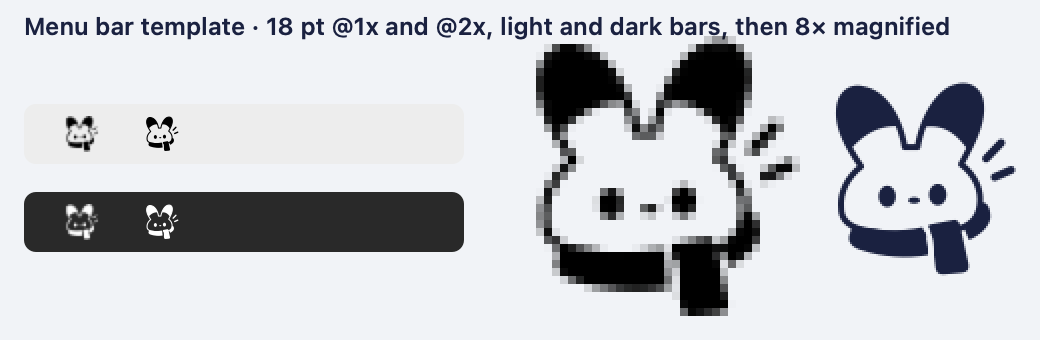
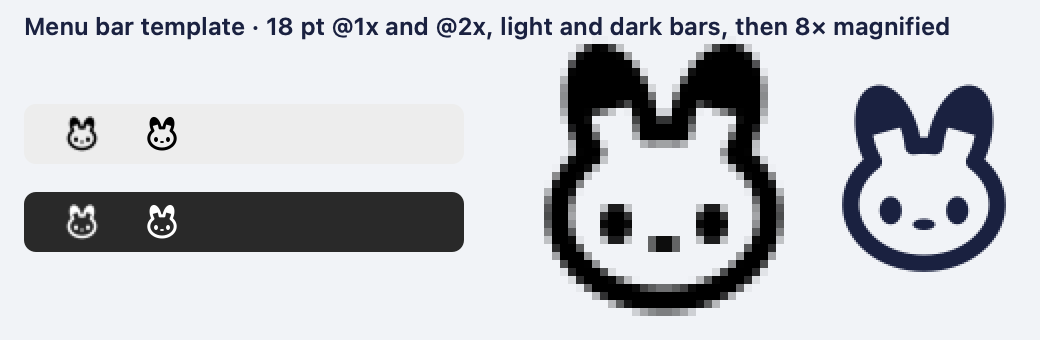
Menu bar: a reduced Mochi glyph instead of the shrunk monochrome mark (D31)
An outline head with filled ear tips, eyes and nose, drawn for 18 pt with
the face on the 2x pixel grid; alpha only so macOS tints it. The
candidates sheet compares six designs beside system symbols on light and
dark bars at 1x and 2x. The large monochrome mark stays for lockups.

diff --git a/scripts/menu-bar-candidates.swift b/scripts/menu-bar-candidates.swift
@@ -1,0 +1,166 @@
+#!/usr/bin/env swift
+// Design exploration for the 18 pt menu bar template: every candidate drawn at real size on light and
+// dark bars beside system menu bar symbols, as 1x pixels, and magnified. The shipped glyph comes from
+// Resources/MenuBar/SidefolkMenuBar.pdf and the previous one from the large monochrome mark it was
+// shrunk from. Run from the repository root: swift scripts/menu-bar-candidates.swift <out.png>
+import AppKit
+import ImageIO
+
+let root = URL(fileURLWithPath: FileManager.default.currentDirectoryPath)
+let out = URL(fileURLWithPath: CommandLine.arguments.count > 1 ? CommandLine.arguments[1] : "build/menu-bar-candidates.png", relativeTo: root)
+
+// MARK: Shared Mochi geometry (18 × 18 pt, y down)
+
+func ellipse(_ cx: Double, _ cy: Double, _ rx: Double, _ ry: Double, angle: Double = 0) -> CGPath {
+    var t = CGAffineTransform(translationX: cx, y: cy).rotated(by: angle * .pi / 180)
+    return CGPath(ellipseIn: CGRect(x: -rx, y: -ry, width: 2 * rx, height: 2 * ry), transform: &t)
+}
+let head = ellipse(9, 11.3, 6.9, 5.5)
+let leftEar = ellipse(5.8, 4.9, 2.05, 4.3, angle: -16)
+let rightEar = ellipse(12.2, 4.9, 2.05, 4.3, angle: 16)
+let ears = leftEar.union(rightEar)
+let silhouette = head.union(ears)
+let eyes = ellipse(6.5, 11.7, 0.95, 1.15).union(ellipse(11.5, 11.7, 0.95, 1.15))
+let nose = ellipse(9, 12.85, 0.75, 0.48)
+/// The upper part of each ear, as the brand's navy ear tips.
+let tips: CGPath = {
+    func tip(_ ear: CGPath, _ cx: Double, _ angle: Double) -> CGPath {
+        var t = CGAffineTransform(translationX: cx, y: 4.9).rotated(by: angle * .pi / 180)
+        return ear.intersection(CGPath(rect: CGRect(x: -4, y: -6, width: 8, height: 5.4), transform: &t))
+    }
+    return tip(leftEar, 5.8, -16).union(tip(rightEar, 12.2, 16))
+}()
+let scarf: CGPath = {
+    let band = CGPath(roundedRect: CGRect(x: 3.2, y: 14.6, width: 11.6, height: 2.6), cornerWidth: 1.3, cornerHeight: 1.3, transform: nil)
+    let tail = CGPath(roundedRect: CGRect(x: 10.6, y: 15.2, width: 2.6, height: 2.8), cornerWidth: 1.1, cornerHeight: 1.1, transform: nil)
+    return band.union(tail)
+}()
+func outlined(_ p: CGPath, _ width: Double) -> CGPath { p.copy(strokingWithWidth: width, lineCap: .round, lineJoin: .round, miterLimit: 10) }
+/// A ring of clear space around a shape, so the shapes beside it read as separate pieces.
+func gap(_ p: CGPath, _ width: Double) -> CGPath { outlined(p, width * 2) }
+
+struct Candidate {
+    var name: String
+    var note: String
+    var draw: (CGContext) -> Void
+}
+
+func fill(_ c: CGContext, _ p: CGPath) { c.addPath(p); c.fillPath() }
+func clear(_ c: CGContext, _ p: CGPath) { c.saveGState(); c.setBlendMode(.clear); c.addPath(p); c.fillPath(); c.restoreGState() }
+
+/// A vector or image file drawn into the 18 pt box.
+func file(_ path: String) -> (CGContext) -> Void {
+    let image = NSImage(contentsOf: root.appendingPathComponent(path))
+    return { c in
+        guard let image else { return }
+        NSGraphicsContext.saveGraphicsState()
+        NSGraphicsContext.current = NSGraphicsContext(cgContext: c, flipped: true)
+        image.draw(in: NSRect(x: 0, y: 0, width: 18, height: 18), from: .zero, operation: .sourceOver, fraction: 1, respectFlipped: true, hints: nil)
+        NSGraphicsContext.restoreGraphicsState()
+    }
+}
+
+let candidates: [Candidate] = [
+    Candidate(name: "Before", note: "the large monochrome mark shrunk: rays, paw, scarf and outline compete at 18 pt",
+              draw: file("Resources/Brand/exports/mascot-navy.pdf")),
+    Candidate(name: "A · solid", note: "filled head and ears, eyes cut out: bold, but the ears merge into one blob") { c in
+        fill(c, silhouette); clear(c, eyes)
+    },
+    Candidate(name: "B · outline", note: "1.5 pt outline and two eyes: calm and Apple-like, a generic bunny") { c in
+        fill(c, outlined(silhouette, 1.5)); fill(c, eyes)
+    },
+    Candidate(name: "C · ear tips", note: "outline with solid ear tips, eyes: the brand's navy tips read even at 1x") { c in
+        fill(c, outlined(silhouette, 1.5)); fill(c, tips); fill(c, eyes)
+    },
+    Candidate(name: "C2 · ear tips + nose", note: "C with Mochi's nose: the face reads as Mochi rather than any bunny") { c in
+        fill(c, outlined(silhouette, 1.5)); fill(c, tips); fill(c, eyes); fill(c, nose)
+    },
+    Candidate(name: "D · solid + scarf", note: "filled head with a separate scarf: Mochi, but heavy beside system glyphs") { c in
+        fill(c, silhouette.subtracting(gap(scarf, 0.8))); fill(c, scarf); clear(c, eyes)
+    },
+    Candidate(name: "E · tips + scarf", note: "C with the scarf as one shape: most Mochi, crowded at 1x") { c in
+        fill(c, outlined(silhouette, 1.5).subtracting(gap(scarf, 0.8))); fill(c, tips); fill(c, scarf); fill(c, eyes)
+    },
+    Candidate(name: "Shipped · C2", note: "eyes and nose on whole 2x pixels, all inside the 18 pt box (Resources/MenuBar)",
+              draw: file("Resources/MenuBar/SidefolkMenuBar.pdf")),
+]
+
+// MARK: Rendering
+
+let scale: CGFloat = 2
+func bitmap(_ w: Int, _ h: Int) -> CGContext {
+    CGContext(data: nil, width: w, height: h, bitsPerComponent: 8, bytesPerRow: 0, space: CGColorSpace(name: CGColorSpace.sRGB)!,
+              bitmapInfo: CGImageAlphaInfo.premultipliedLast.rawValue)!
+}
+/// The glyph as an alpha mask at `pixels` per point, like the template macOS tints.
+func mask(_ draw: (CGContext) -> Void, pixels: CGFloat) -> CGImage {
+    let c = bitmap(Int(18 * pixels), Int(18 * pixels))
+    c.translateBy(x: 0, y: 18 * pixels); c.scaleBy(x: pixels, y: -pixels)
+    c.setFillColor(CGColor(gray: 0, alpha: 1))
+    draw(c)
+    return c.makeImage()!
+}
+func symbol(_ name: String) -> (CGContext) -> Void {
+    let image = NSImage(systemSymbolName: name, accessibilityDescription: nil)!
+        .withSymbolConfiguration(NSImage.SymbolConfiguration(pointSize: 14, weight: .regular))!
+    return { c in
+        NSGraphicsContext.saveGraphicsState()
+        NSGraphicsContext.current = NSGraphicsContext(cgContext: c, flipped: true)
+        let s = image.size
+        image.draw(in: NSRect(x: (18 - s.width) / 2, y: (18 - s.height) / 2, width: s.width, height: s.height))
+        NSGraphicsContext.restoreGraphicsState()
+    }
+}
+let system = ["wifi", "battery.75percent", "magnifyingglass", "switch.2"].map(symbol)
+
+let rowHeight: CGFloat = 100, width: CGFloat = 1330
+let height = 70 + CGFloat(candidates.count) * rowHeight
+let c = bitmap(Int(width * scale), Int(height * scale))
+c.scaleBy(x: scale, y: scale)
+NSGraphicsContext.current = NSGraphicsContext(cgContext: c, flipped: false)
+c.setFillColor(CGColor(gray: 0.96, alpha: 1)); c.fill(CGRect(x: 0, y: 0, width: width, height: height))
+func text(_ s: String, _ x: CGFloat, _ y: CGFloat, size: CGFloat = 12, weight: NSFont.Weight = .regular, color: NSColor = .init(white: 0.2, alpha: 1)) {
+    (s as NSString).draw(at: NSPoint(x: x, y: y), withAttributes: [.font: NSFont.systemFont(ofSize: size, weight: weight), .foregroundColor: color])
+}
+func tinted(_ m: CGImage, _ rect: CGRect, _ color: NSColor, pixelated: Bool = false) {
+    c.saveGState()
+    c.interpolationQuality = pixelated ? .none : .high
+    c.clip(to: rect, mask: m)
+    c.setFillColor(color.cgColor); c.fill(rect)
+    c.restoreGState()
+}
+text("Menu bar template candidates · real size on light and dark bars beside system symbols, then 1x pixels, then 2x pixels magnified ×5",
+     16, height - 32, size: 13, weight: .semibold)
+for (i, candidate) in candidates.enumerated() {
+    let top = height - 60 - CGFloat(i) * rowHeight
+    text(candidate.name, 16, top - 22, size: 13, weight: .semibold)
+    text(candidate.note, 16, top - 40, size: 11, color: .init(white: 0.4, alpha: 1))
+    let retina = mask(candidate.draw, pixels: 2), plain = mask(candidate.draw, pixels: 1)
+    for (j, dark) in [false, true].enumerated() {
+        let background = dark ? NSColor(white: 0.13, alpha: 1) : NSColor(white: 0.985, alpha: 1)
+        let ink = dark ? NSColor.white : NSColor(white: 0, alpha: 0.85)
+        let bar = CGRect(x: 16 + CGFloat(j) * 320, y: top - 84, width: 300, height: 24)
+        c.setFillColor(background.cgColor); c.fill(bar)
+        var x = bar.minX + 12
+        for draw in system.prefix(2) { tinted(mask(draw, pixels: 2), CGRect(x: x, y: bar.minY + 3, width: 18, height: 18), ink); x += 30 }
+        tinted(retina, CGRect(x: x, y: bar.minY + 3, width: 18, height: 18), ink); x += 30
+        for draw in system.suffix(2) { tinted(mask(draw, pixels: 2), CGRect(x: x, y: bar.minY + 3, width: 18, height: 18), ink); x += 30 }
+        text("Mon 26 Oct 14:05", x + 4, bar.minY + 5, size: 12.5, weight: .medium, color: ink)
+        // 1x: each pixel of a non-Retina display shown as one point.
+        let one = CGRect(x: 670 + CGFloat(j) * 40, y: top - 81, width: 18, height: 18)
+        c.setFillColor(background.cgColor); c.fill(one.insetBy(dx: -6, dy: -3))
+        tinted(plain, one, ink, pixelated: true)
+        // 2x pixels magnified.
+        let detail = CGRect(x: 770 + CGFloat(j) * 100, y: top - 92, width: 90, height: 90)
+        c.setFillColor(background.cgColor); c.fill(detail)
+        tinted(retina, detail, dark ? .white : .black, pixelated: true)
+    }
+    if i == 0 {
+        text("1x", 690, top - 52, size: 10, color: .init(white: 0.45, alpha: 1))
+        text("2x pixels ×5", 830, top - 0, size: 10, color: .init(white: 0.45, alpha: 1))
+    }
+}
+let dest = CGImageDestinationCreateWithURL(out as CFURL, "public.png" as CFString, 1, nil)!
+CGImageDestinationAddImage(dest, c.makeImage()!, nil)
+precondition(CGImageDestinationFinalize(dest), "Cannot write \(out.path)")
+print("wrote \(out.path)")

diff --git a/Sources/SidefolkCharacter/RabbitBrandMark.swift b/Sources/SidefolkCharacter/RabbitBrandMark.swift
@@ -90,11 +90,9 @@ public enum RabbitBrandMark {
         c.restoreGState()
     }
 
-    public static func svg(ink: String = "#0F2D5B", menuBar: Bool = false) -> String {
-        let viewport = menuBar ? "width=\"18\" height=\"18\" viewBox=\"8 16 280 280\""
-            : "width=\"260\" height=\"280\" viewBox=\"18 16 260 280\""
-        return """
-        <svg xmlns="http://www.w3.org/2000/svg" \(viewport)>
+    public static func svg(ink: String = "#0F2D5B") -> String {
+        """
+        <svg xmlns="http://www.w3.org/2000/svg" width="260" height="280" viewBox="18 16 260 280">
         <title>Sidefolk Mochi rabbit mascot</title>
         <defs>
         <clipPath id="rabbit-shell"><path d="\(shell)"/></clipPath>
@@ -112,6 +110,68 @@ public enum RabbitBrandMark {
         <path d="\(rays)" fill="none" stroke="\(ink)" stroke-width="11" stroke-linecap="round"/>
         </g>
         </svg>
+        """
+    }
+}
+
+/// Mochi's head reduced to what reads in the menu bar (D31): a 1.5 pt outline of the head and ears,
+/// the ear tips filled like the brand's navy tips, two eyes and the nose. No rays, paw or scarf: at
+/// 18 pt they turned the large mark into noise. Drawn in an 18 pt box with the eyes and nose on the
+/// 2x pixel grid; it is one alpha shape, so macOS tints it as a template in any menu bar.
+public enum MochiMenuGlyph {
+    /// The glyph in its 18 × 18 pt box, y down. Built on each call: it is drawn a handful of times.
+    public static var path: CGPath {
+        func ellipse(_ cx: Double, _ cy: Double, _ rx: Double, _ ry: Double, angle: Double = 0) -> CGPath {
+            var t = CGAffineTransform(translationX: cx, y: cy).rotated(by: angle * .pi / 180)
+            return CGPath(ellipseIn: CGRect(x: -rx, y: -ry, width: 2 * rx, height: 2 * ry), transform: &t)
+        }
+        let head = ellipse(9, 11.2, 6.6, 5.3)
+        let ears = [(x: 5.8, angle: -16.0), (x: 12.2, angle: 16.0)]
+        let earShapes = ears.map { ellipse($0.x, 5.2, 2.05, 4.1, angle: $0.angle) }
+        let outline = earShapes.reduce(head) { $0.union($1) }
+            .copy(strokingWithWidth: 1.5, lineCap: .round, lineJoin: .round, miterLimit: 10)
+        // The upper part of each ear, cut square to the ear's own axis.
+        let tips = zip(earShapes, ears).map { shape, ear -> CGPath in
+            var t = CGAffineTransform(translationX: ear.x, y: 5.2).rotated(by: ear.angle * .pi / 180)
+            return shape.intersection(CGPath(rect: CGRect(x: -4, y: -6, width: 8, height: 5.4), transform: &t))
+        }
+        let face = [ellipse(6, 11.75, 1, 1.25), ellipse(12, 11.75, 1, 1.25), ellipse(9, 13, 1, 0.5)]
+        return (tips + face).reduce(outline) { $0.union($1) }
+    }
+
+    /// Fills the glyph in black, scaled to `size`, in a y-up context (bitmaps and PDF pages).
+    public static func draw(in c: CGContext, size: CGSize) {
+        c.saveGState()
+        c.translateBy(x: 0, y: size.height)
+        c.scaleBy(x: size.width / 18, y: -size.height / 18)
+        c.setFillColor(CGColor(gray: 0, alpha: 1))
+        c.addPath(path)
+        c.fillPath()
+        c.restoreGState()
+    }
+
+    public static func svg() -> String {
+        func n(_ v: CGFloat) -> String { String(format: "%.3f", Double(v)) }
+        var d: [String] = []
+        path.applyWithBlock { element in
+            let e = element.pointee
+            let count = switch e.type { case .addQuadCurveToPoint: 2; case .addCurveToPoint: 3; case .closeSubpath: 0; default: 1 }
+            let p = (0..<count).map { "\(n(e.points[$0].x)) \(n(e.points[$0].y))" }
+            switch e.type {
+            case .moveToPoint: d.append("M \(p[0])")
+            case .addLineToPoint: d.append("L \(p[0])")
+            case .addQuadCurveToPoint: d.append("Q \(p[0]) \(p[1])")
+            case .addCurveToPoint: d.append("C \(p[0]) \(p[1]) \(p[2])")
+            case .closeSubpath: d.append("Z")
+            @unknown default: break
+            }
+        }
+        return """
+        <svg xmlns="http://www.w3.org/2000/svg" width="18" height="18" viewBox="0 0 18 18">
+        <title>Sidefolk menu bar template</title>
+        <path fill="#000000" d="\(d.joined(separator: " "))"/>
+        </svg>
+
         """
     }
 }

diff --git a/Sources/SidefolkCharacter/Renderer.swift b/Sources/SidefolkCharacter/Renderer.swift
@@ -55,7 +55,7 @@ public enum CharacterRenderer {
         return data as Data
     }
 
-    /// Mochi's rabbit ears, face and scarf simplified for an 18 pt macOS template.
+    /// Mochi's head as the 18 pt macOS template (`MochiMenuGlyph`).
     /// A template must use alpha alone so macOS can tint it for any menu bar appearance.
     @MainActor
     public static func menuBarTemplate(size: CGSize, scale: CGFloat) -> CGImage {
@@ -78,7 +78,7 @@ public enum CharacterRenderer {
     }
 
     private static func drawMenuBar(in context: CGContext, size: CGSize) {
-        RabbitBrandMark.draw(in: context, size: size, ink: CGColor(gray: 0, alpha: 1))
+        MochiMenuGlyph.draw(in: context, size: size)
     }
 
     // MARK: Plumbing

diff --git a/Sources/sidefolk-render/main.swift b/Sources/sidefolk-render/main.swift
@@ -46,8 +46,7 @@ MainActor.assumeIsolated {
                      dir.appendingPathComponent("SidefolkMenuBar\(suffix).png"))
             }
             try CharacterRenderer.menuBarPDF(size: size).write(to: dir.appendingPathComponent("SidefolkMenuBar.pdf"))
-            let svg = RabbitBrandMark.svg(ink: "#000000", menuBar: true)
-            try svg.write(to: dir.appendingPathComponent("SidefolkMenuBar.svg"), atomically: true, encoding: .utf8)
+            try MochiMenuGlyph.svg().write(to: dir.appendingPathComponent("SidefolkMenuBar.svg"), atomically: true, encoding: .utf8)
         } catch {
             fatalError("Menu bar asset export failed: \(error)")
         }

diff --git a/Resources/Brand/README.md b/Resources/Brand/README.md
@@ -17,11 +17,12 @@ masters are retained in `archive/robot/`.
 | Derived macOS icon | `../Icon/icon-macos-1024.png`, `../Icon/Sidefolk.iconset/` | Flat macOS outline/inset only. PNGs: 16/32/128/256/512 pt at 1x and 2x. No rendered edge effects. |
 | Xcode asset catalog | `../Icon/Sidefolk.xcassets/` | Drop into an Xcode project. `AppIcon` contains macOS representations; `AppIconSource` and `IconArtwork` are reusable image sets. |
 | Menu bar template | `../MenuBar/SidefolkMenuBar.pdf` | True vector alpha template; `NSImage.isTemplate = true`, size 18 × 18 pt. |
-| Portable menu vector | `../MenuBar/SidefolkMenuBar.svg` | The same rabbit geometry in a square 18 pt SVG. |
-| Menu bar PNGs | `../MenuBar/SidefolkMenuBar{,@2x,@3x}.png` | 18/36/54 px; native rabbit-ear, face and scarf template, automatically tinted by macOS. |
+| Portable menu vector | `../MenuBar/SidefolkMenuBar.svg` | The same glyph in a square 18 pt SVG. |
+| Menu bar PNGs | `../MenuBar/SidefolkMenuBar{,@2x,@3x}.png` | 18/36/54 px; Mochi's head as a menu bar glyph (outline, filled ear tips, eyes, nose), automatically tinted by macOS. |
+| Menu bar study | `menu-bar-candidates.png` | QA only: the candidates beside system symbols on light and dark bars, at 1x and 2x (`scripts/menu-bar-candidates.swift`). |
 | Logos | `exports/logo-{stacked,horizontal}-{color,navy,white}.png` | Tightly framed transparent lockups; preserve aspect ratio. |
 | Icon marks | `exports/mark-{color,navy,white}.png` | Standalone rabbit portrait/monochrome mark without tile or lettering. |
-| Mascot vectors | `exports/mascot-{navy,white}.{svg,pdf,png}` | Hand-drawn rabbit mark, sharing geometry with the menu template. |
+| Mascot vectors | `exports/mascot-{navy,white}.{svg,pdf,png}` | Hand-drawn rabbit mark for large monochrome use (lockups, print); the menu bar has its own reduced glyph. |
 | Full-body mascot | `exports/mascot-color.png` | Mochi character study, transparent and unframed. |
 | Wordmarks | `exports/wordmark-{color,navy,white}.png` | Flat lettering, 4096 px wide; no bevel, glow or shadow. |
 | Vector wordmarks | `exports/wordmark-{color,navy,white}.{svg,pdf}` | One filled outline per letter built from strokes (below), canonical flat colors, no fonts, clipping masks, filters or embedded raster. |

diff --git a/docs/DECISIONS.md b/docs/DECISIONS.md
@@ -249,3 +249,16 @@ and measuring against the reference makes "like this" checkable instead of a mat
 **Alternatives:** tracing the reference (wobbly, inherits its blur); hand-drawn Bézier outlines (what
 drifted); a variable-width brush stroke for the S (smooth, but its fit was worse and its counters came
 out pointed); unioning untangent turn arcs (round counters, but small notches where edges crossed).
+
+### D31 — The menu bar shows a reduced Mochi glyph, not the shrunk monochrome mark (2026-10-26)
+**Decision:** the 18 pt template is its own drawing (`MochiMenuGlyph`): a 1.5 pt outline of Mochi's
+head and ears, the ear tips filled (the brand's navy tips), two wide-set eyes and the nose, with the
+eyes and nose on whole pixels at 2x. One alpha shape, `isTemplate`, so macOS tints it on any bar. The
+large monochrome mark (rays, paw, scarf) stays for lockups and print, where its detail reads.
+**Why:** the founder found the old template "not the best": shrinking the full mark to 18 pt put
+rays, a paw, a scarf and an outline in 36 pixels, which read as noise beside system glyphs. Six
+candidates were drawn at real size beside wifi, battery and search on light and dark bars, at 1x and
+2x (`Resources/Brand/menu-bar-candidates.png`). Solid silhouettes were bolder than every system glyph
+and merged the ears; a plain outline read as any bunny; adding the scarf crowded the 1x pixels. The
+filled ear tips plus the nose are the two details that say Mochi at this size, and the outline matches
+the weight of the symbols around it.
